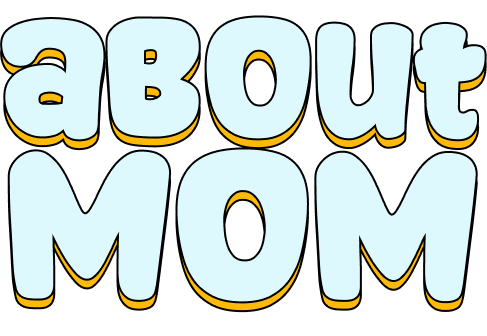
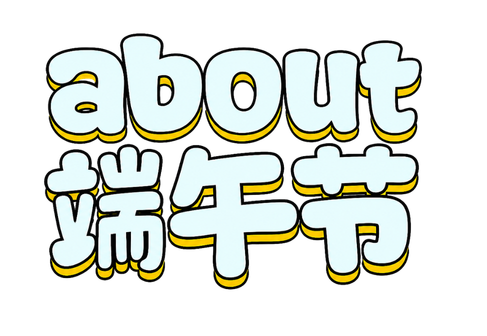
update

diff --git a/index.html b/index.html
@@ -19,8 +19,8 @@
     <link rel="stylesheet" href="css/style.min.css?_v=20241025171350" />
     <link rel="icon" href="/logo.png" />
     <meta name="viewport" content="width=device-width, initial-scale=1.0" />
-  </head>
-
+  </head> 
+ 
   <body>
     <div class="wrapper">
       <div class="menu-open-bg"></div>